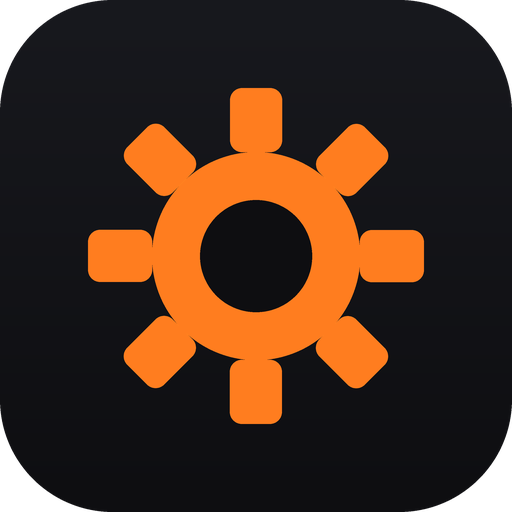
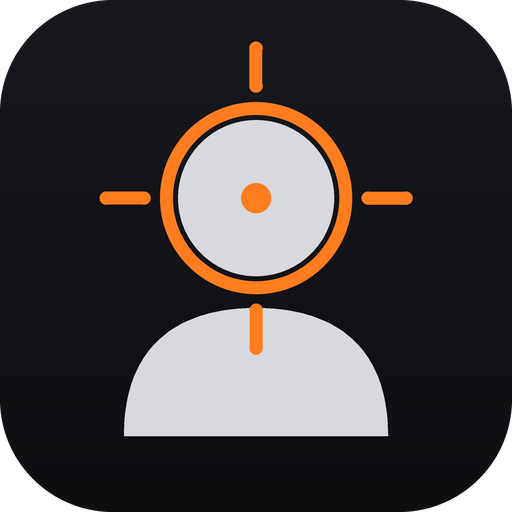
ui: иконка раздела «Настройка» — прицел на силуэте головы (svg, png)

Changed region(s): [[0.1562, 0.0625, 0.8438, 0.875]]

diff --git a/scripts/make_icons.py b/scripts/make_icons.py
@@ -69,32 +69,58 @@ def make_icon(size: int) -> Image.Image:
 
 
 def make_settings_icon(size: int) -> Image.Image:
+    # прицел на силуэте головы — как иконка раздела «Настройка»
     s = size * 4
-    img = make_base_plate(s)
     k = s / 512
-
-    # зубья: каждый на своём слое, поворот вокруг центра
-    for ang in range(0, 360, 45):
-        tooth = Image.new("RGBA", (s, s), (0, 0, 0, 0))
-        ImageDraw.Draw(tooth).rounded_rectangle(
-            [230 * k, 88 * k, 282 * k, 152 * k], radius=12 * k, fill=ACCENT)
-        tooth = tooth.rotate(ang, resample=Image.BICUBIC, center=(s / 2, s / 2))
-        img = Image.alpha_composite(img, tooth)
-
+    img = make_base_plate(s)
     d = ImageDraw.Draw(img)
-    ring_r = 104 * k
-    lw = int(54 * k)
+    head = (216, 217, 222, 255)
+
+    head_c, head_r = 256 * k, 78 * k
     d.ellipse(
-        [s / 2 - ring_r, s / 2 - ring_r, s / 2 + ring_r, s / 2 + ring_r],
+        [head_c - head_r, 198 * k - head_r, head_c + head_r, 198 * k + head_r],
+        fill=head,
+    )
+    d.polygon(_shoulders(k), fill=head)
+
+    cx, cy = 256 * k, 198 * k
+    ring_r, lw = 96 * k, 13 * k
+    d.ellipse(
+        [cx - ring_r, cy - ring_r, cx + ring_r, cy + ring_r],
         outline=ACCENT,
-        width=lw,
+        width=int(lw),
     )
-    hole_r = 56 * k
-    d.ellipse(
-        [s / 2 - hole_r, s / 2 - hole_r, s / 2 + hole_r, s / 2 + hole_r],
-        fill=(14, 14, 17, 255),
-    )
+    tick_in, tick_out = 112 * k, 150 * k
+    cap = int(lw / 2)
+    for ang in (0, 90, 180, 270):
+        a = math.radians(ang)
+        x1, y1 = cx + tick_in * math.cos(a), cy + tick_in * math.sin(a)
+        x2, y2 = cx + tick_out * math.cos(a), cy + tick_out * math.sin(a)
+        d.line([(x1, y1), (x2, y2)], fill=ACCENT, width=int(lw))
+        for (px, py) in ((x1, y1), (x2, y2)):
+            d.ellipse([px - cap, py - cap, px + cap, py + cap], fill=ACCENT)
+
+    dot_r = 15 * k
+    d.ellipse([cx - dot_r, cy - dot_r, cx + dot_r, cy + dot_r], fill=ACCENT)
     return img.resize((size, size), Image.LANCZOS)
+
+
+def _shoulders(k: float):
+    # M 124 436 C 124 342 182 308 256 308 C 330 308 388 342 388 436 Z
+    def cubic(p0, p1, p2, p3, n=48):
+        pts = []
+        for i in range(n + 1):
+            t = i / n
+            mt = 1 - t
+            pts.append((
+                mt ** 3 * p0[0] + 3 * mt * mt * t * p1[0] + 3 * mt * t * t * p2[0] + t ** 3 * p3[0],
+                mt ** 3 * p0[1] + 3 * mt * mt * t * p1[1] + 3 * mt * t * t * p2[1] + t ** 3 * p3[1],
+            ))
+        return pts
+
+    left = cubic((124, 436), (124, 342), (182, 308), (256, 308))
+    right = cubic((256, 308), (330, 308), (388, 342), (388, 436))
+    return [(x * k, y * k) for x, y in left + right]
 
 
 def make_base_plate(s: int) -> Image.Image:
